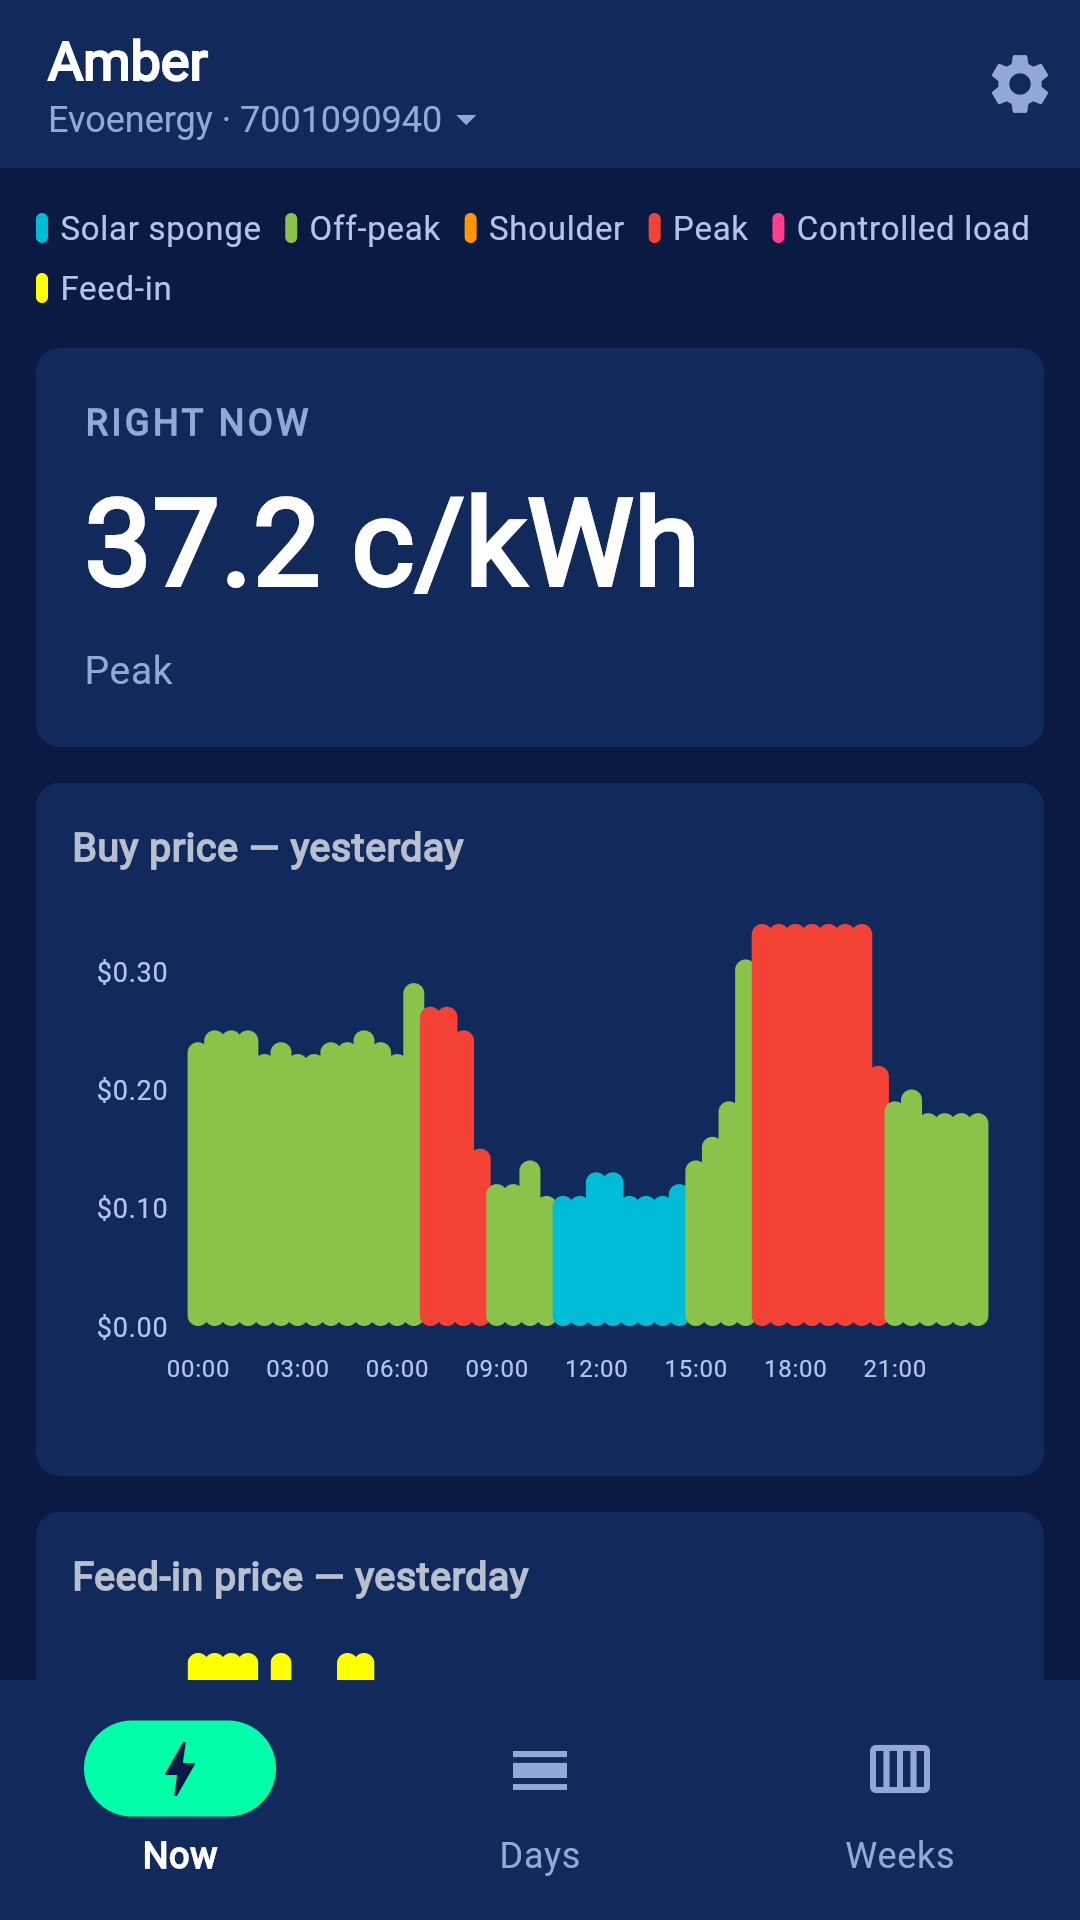
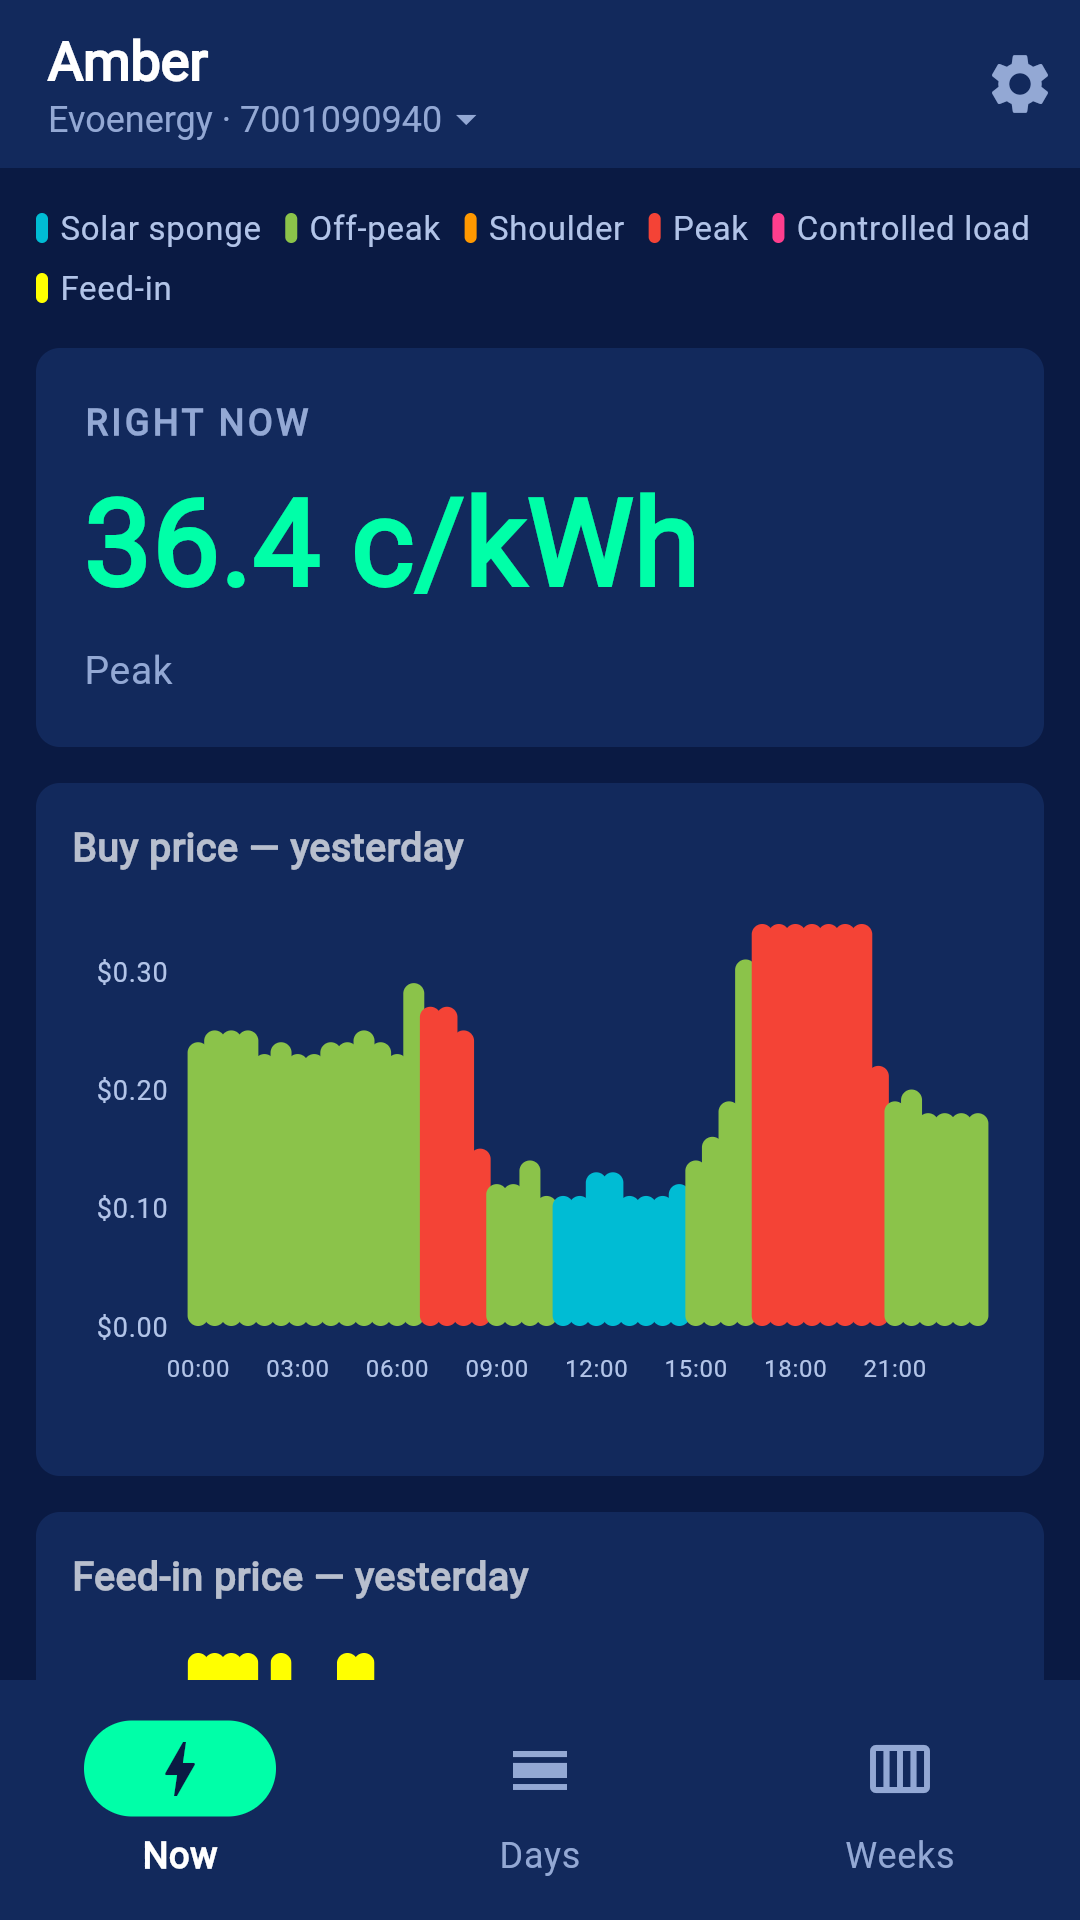
Put the live price in Amber's mint [skip ci]
The current price is the one number a customer opens the app for, and Amber's
own app frames it in a mint circle. Screenshots regenerated; also drops the
UTF-8 BOM a PowerShell version bump prepended to pubspec.yaml.

Changed region(s): [[0.0917, 0.25, 0.6417, 0.3125]]

diff --git a/lib/screens/now_tab.dart b/lib/screens/now_tab.dart
@@ -105,8 +105,11 @@ class NowTab extends StatelessWidget {
                 const SizedBox(height: 4),
                 Text(
                   priceText,
+                  // Mint, the way Amber's own app puts the live price in its
+                  // mint circle — this number is the one thing a customer
+                  // opens the app for.
                   style: const TextStyle(
-                    color: Colors.white,
+                    color: AmberPalette.mint,
                     fontWeight: FontWeight.bold,
                     fontSize: 40,
                   ),
